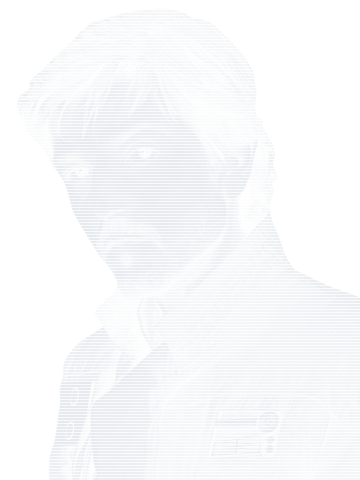
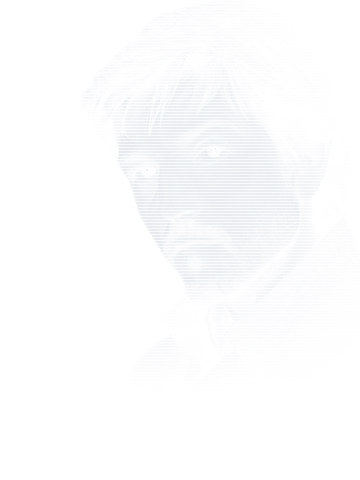
Wanted scanner: 27 suspect portraits (consistent hologram framing), 2 gallery pages, charges for all

Changed region(s): [[0.1528, 0.7812, 0.2444, 0.9375], [0.1833, 0.3125, 0.3056, 0.5], [0.1528, 0.2812, 0.2444, 0.3438]]

diff --git a/index.html b/index.html
@@ -724,19 +724,31 @@ $("#catch").addEventListener("click",()=>{SFX.tap();resetScanner();startScan()})
 const SUSPECTS=[
   ["cassian","CASSIAN ANDOR",["REBEL ESPIONAGE","THEFT OF IMPERIAL DATA","SABOTAGE ON SCARIF"]],
   ["kenobi","OBI-WAN KENOBI",["JEDI ACTIVITY","UNLICENSED MIND TRICKS","HARBOURING A FUGITIVE"]],
+  ["kenobiold","BEN KENOBI",["JEDI ACTIVITY","UNLICENSED MIND TRICKS","AIDING REBEL FUGITIVES"]],
   ["luke","LUKE SKYWALKER",["DESTROYING THE DEATH STAR","UNREGISTERED T-65 PILOT","JEDI TRAINING"]],
+  ["lukeold","LUKE SKYWALKER",["JEDI ACTIVITY","TRAINING JEDI","DESTROYING THE DEATH STAR"]],
+  ["hansolo","HAN SOLO",["DESERTION FROM THE ACADEMY","THEFT OF COAXIUM","SMUGGLING"]],
   ["han","HAN SOLO",["SMUGGLING","UNPAID DEBTS TO JABBA","RECKLESS HYPERSPACE FLIGHT"]],
+  ["hanold","HAN SOLO",["SMUGGLING","RATHTAR TRAFFICKING","UNPAID DEBTS"]],
   ["leia","LEIA ORGANA",["THEFT OF IMPERIAL PLANS","HIGH TREASON","RESISTING ARREST"]],
-  ["qira","QI'RA",["CRIME SYNDICATE ACTIVITY","THEFT OF COAXIUM","CONSPIRACY"]],
+  ["leiaold","GENERAL ORGANA",["COMMANDING REBEL FORCES","HIGH TREASON","INSPIRING REBELLION"]],
   ["lando","LANDO CALRISSIAN",["GAMBLING FRAUD","SABACC CHEATING","UNLICENSED STARSHIP TRADING"]],
+  ["landoold","LANDO CALRISSIAN",["BETRAYING THE EMPIRE","GAMBLING FRAUD","STEALING A STAR DESTROYER'S THUNDER"]],
+  ["landorise","LANDO CALRISSIAN",["RECRUITING REBEL FLEETS","GAMBLING FRAUD","EXCESSIVE CHARM"]],
+  ["qira","QI'RA",["CRIME SYNDICATE ACTIVITY","THEFT OF COAXIUM","CONSPIRACY"]],
   ["monmothma","MON MOTHMA",["TREASON AGAINST THE EMPIRE","FUNDING REBELLION","SENATE CONSPIRACY"]],
   ["chirrut","CHIRRUT IMWE",["DISTURBING THE PEACE ON JEDHA","ASSAULTING STORMTROOPERS","EXCESSIVE FAITH IN THE FORCE"]],
+  ["bodhi","BODHI ROOK",["DEFECTION","THEFT OF AN IMPERIAL SHUTTLE","SMUGGLING A MESSAGE"]],
   ["wedge","WEDGE ANTILLES",["REBEL PILOT","DESTROYING IMPERIAL PROPERTY","DESERTION FROM THE ACADEMY"]],
+  ["wedgeold","WEDGE ANTILLES",["REBEL PILOT","DESTROYING IMPERIAL PROPERTY","REFUSING TO RETIRE"]],
   ["biggs","BIGGS DARKLIGHTER",["DESERTION","REBEL PILOT","JOYRIDING ON TATOOINE"]],
-  ["owen","OWEN LARS",["HARBOURING DROIDS","PURCHASING STOLEN DROIDS","CONCEALING A FUGITIVE"]],
-  ["beru","BERU LARS",["HARBOURING DROIDS","AIDING FUGITIVES","WITHHOLDING INFORMATION"]],
   ["rieekan","GENERAL RIEEKAN",["COMMANDING REBEL FORCES","OPERATING AN ILLEGAL BASE"]],
-  ["bodhi","BODHI ROOK",["DEFECTION","THEFT OF AN IMPERIAL SHUTTLE","SMUGGLING A MESSAGE"]]
+  ["owenyoung","OWEN LARS",["HARBOURING DROIDS","MOISTURE FARMING WITHOUT A PERMIT","CONCEALING A FUGITIVE"]],
+  ["owen","OWEN LARS",["HARBOURING DROIDS","PURCHASING STOLEN DROIDS","CONCEALING A FUGITIVE"]],
+  ["owenold","OWEN LARS",["HARBOURING DROIDS","PURCHASING STOLEN DROIDS","CONCEALING A FUGITIVE"]],
+  ["beruyoung","BERU LARS",["HARBOURING DROIDS","AIDING FUGITIVES","WITHHOLDING INFORMATION"]],
+  ["beru","BERU LARS",["HARBOURING DROIDS","AIDING FUGITIVES","WITHHOLDING INFORMATION"]],
+  ["beruold","BERU LARS",["HARBOURING DROIDS","AIDING FUGITIVES","WITHHOLDING INFORMATION"]]
 ].map(([id,name,crimes])=>({id,name,crimes,src:`suspects/${id}.png`}));
 const PH="suspects/_placeholder.png";
 const imgTag=(src)=>`<img src="${src}" alt="" onerror="this.onerror=null;this.src='${PH}'">`;

diff --git a/sw.js b/sw.js
@@ -1,8 +1,8 @@
 /* Datapad offline cache — bump VERSION whenever files change */
-const VERSION="datapad-imperial-v15";
+const VERSION="datapad-imperial-v16";
 const FILES=["./","index.html","manifest.json","icon-180.png","icon-512.png",
   "fonts/orbitron-900.woff2","fonts/orbitron-700.woff2","fonts/aurebesh-canon.otf",
-  "emblems/imperial.png","emblems/rebel.png","emblems/deathstar.png","emblems/r2.png","emblems/c3po.png","suspects/_placeholder.png","suspects/cassian.png","extras/datapad-wallpaper.png","emblems/republic.svg","emblems/jedi.svg"];
+  "emblems/imperial.png","emblems/rebel.png","emblems/deathstar.png","emblems/r2.png","emblems/c3po.png","suspects/_placeholder.png","suspects/cassian.png","suspects/kenobi.png","suspects/kenobiold.png","suspects/luke.png","suspects/lukeold.png","suspects/hansolo.png","suspects/han.png","suspects/hanold.png","suspects/leia.png","suspects/leiaold.png","suspects/lando.png","suspects/landoold.png","suspects/landorise.png","suspects/qira.png","suspects/monmothma.png","suspects/chirrut.png","suspects/bodhi.png","suspects/wedge.png","suspects/wedgeold.png","suspects/biggs.png","suspects/rieekan.png","suspects/owenyoung.png","suspects/owen.png","suspects/owenold.png","suspects/beruyoung.png","suspects/beru.png","suspects/beruold.png","extras/datapad-wallpaper.png","emblems/republic.svg","emblems/jedi.svg"];
 self.addEventListener("install",e=>{e.waitUntil(caches.open(VERSION).then(c=>c.addAll(FILES)));self.skipWaiting()});
 self.addEventListener("activate",e=>{e.waitUntil(caches.keys().then(k=>Promise.all(k.filter(n=>n!==VERSION).map(n=>caches.delete(n)))));self.clients.claim()});
 /* cache first (instant, works with no signal); refresh the cache in the background when online */
